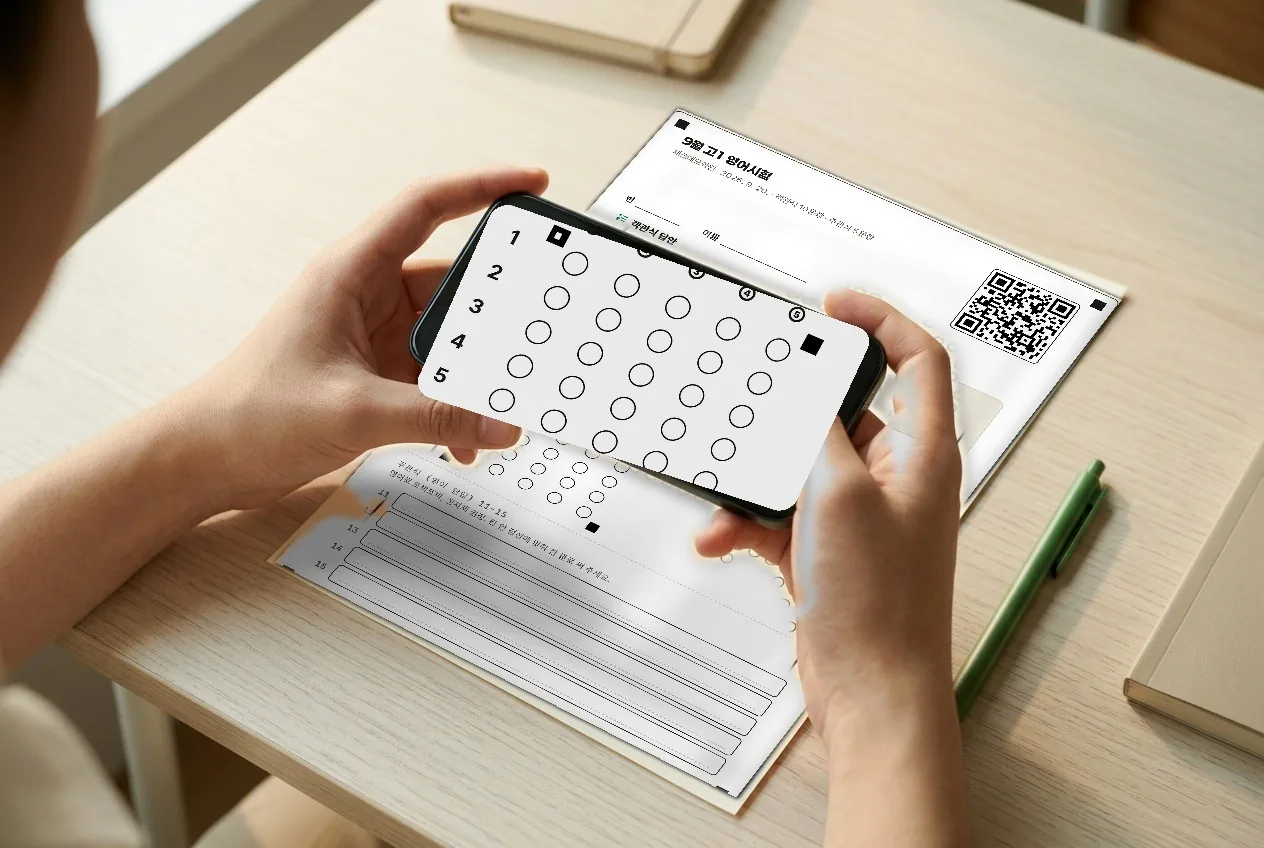
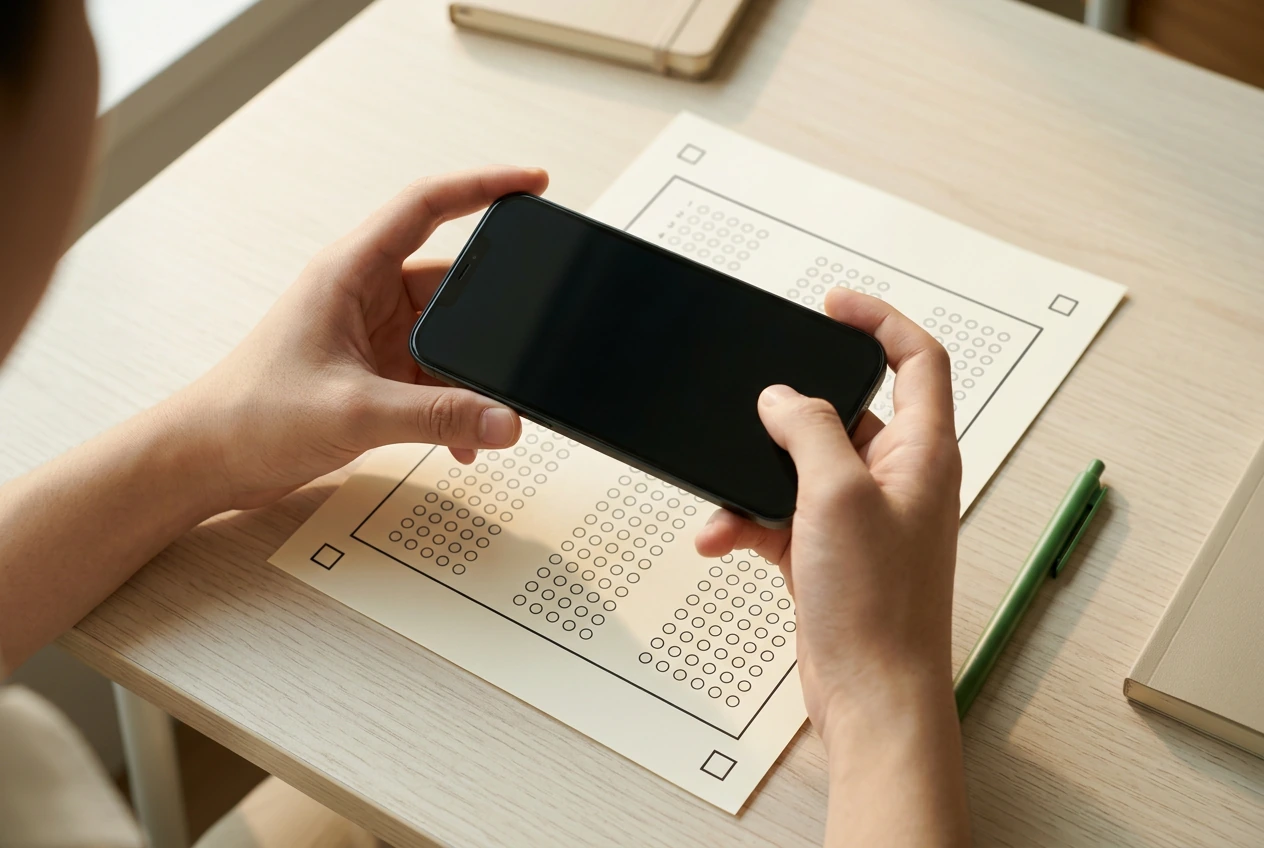
첫 화면(H1) — 제가 채워 넣은 폰 화면·답안지 합성 제거, 사장님 원본(검은 폰 화면)으로 되돌림 · 1·4·5 장면 화면은 사장님 매그니픽 원본 그대로임을 확인
Claude-Session: https://claude.ai/code/session_01T7VgaQWcFS9B6EnqhhvKh2

Changed region(s): [[0.216, 0.1226, 0.8948, 0.9505]]

diff --git a/CLAUDE.md b/CLAUDE.md
@@ -29,7 +29,7 @@
 
 - 🧑 **홈 디자인**(클로드 디자인) · 전화·주소를 사이트에 **공개할지** · 하루한톨 법적 문서의 **내용**(그 프로젝트 `daily-verse` 가 정본 소유 — 여기선 게시만)
 - 🤖 디자인 이식(`DesignSync` 로 읽어 `index.html` 에) · 빌드·검수·배포 · 옛 주소 껍데기 관리 · `data/site.json` 값 반영
-- 🖼 **이미지·영상 역할 분담(9/21 사장님 최종)**: **사장님이 AI 로 이미지·영상을 뽑는다**(이미지엔 글자 0 · 프롬프트 `doc/이미지_프롬프트_릴레이장면.md`·`이미지_프롬프트_채크소개.md` · 영상은 **1920 폭 이상**) → **저는 그 위에 텍스트와 페이지 요소(답안지 SVG 바통·펜·도장·글)만 얹는다. ⛔이미지·영상 안에는 아무것도 합성하지 않는다**(화면 캡처 얹기·답안지 덧씌우기·겹판 전부 금지 — 9/21 *"니가 이미지 내에서 뭘 넣을 필요없어 … 다른 건 건들지 마"*). `tools/img.py` 의 screen/paper 는 더 이상 쓰지 않는다(H1 합성본만 요청받아 만든 것이라 유지). 영상은 mp4 로 받아 ①루프(장면과 무관) 또는 ②프레임 연속(스크롤에 묶는 것 · 한 방향 동작만)으로 쓴다.
+- 🖼 **이미지·영상 역할 분담(9/21 사장님 최종)**: **사장님이 AI 로 이미지·영상을 뽑는다**(이미지엔 글자 0 · 프롬프트 `doc/이미지_프롬프트_릴레이장면.md`·`이미지_프롬프트_채크소개.md` · 영상은 **1920 폭 이상**) → **저는 그 위에 텍스트와 페이지 요소(답안지 SVG 바통·펜·도장·글)만 얹는다. ⛔이미지·영상 안에는 아무것도 합성하지 않는다**(화면 캡처 얹기·답안지 덧씌우기·겹판 전부 금지 — 9/21 *"니가 이미지 내에서 뭘 넣을 필요없어 … 다른 건 건들지 마"*). `tools/img.py` 의 screen/paper 는 더 이상 쓰지 않는다(H1 도 9/24 사장님 원본(검은 폰 화면)으로 되돌림 — 이제 합성본 0). 영상은 mp4 로 받아 ①루프(장면과 무관) 또는 ②프레임 연속(스크롤에 묶는 것 · 한 방향 동작만)으로 쓴다.
 
 ## 3. 명령
 
